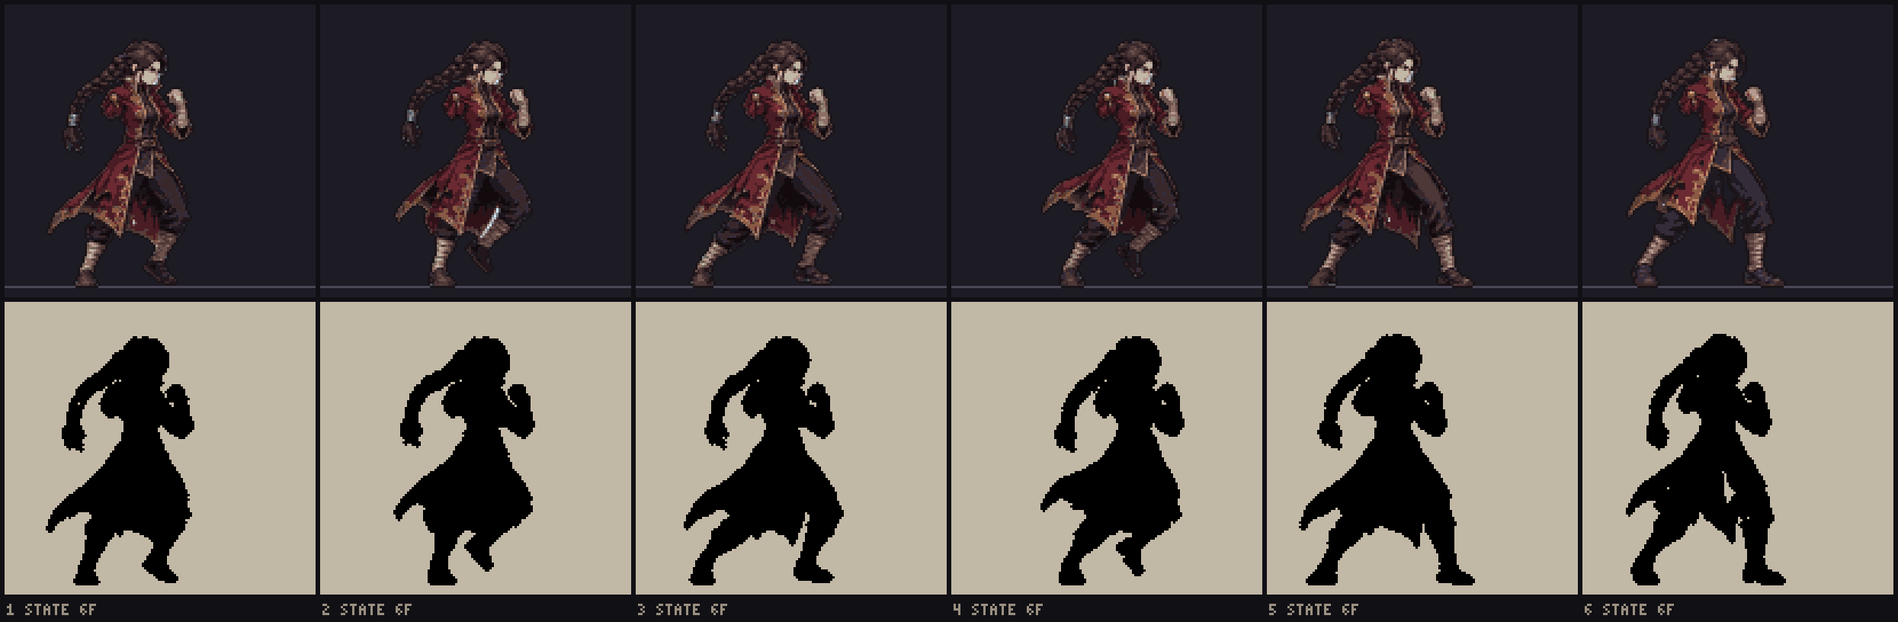
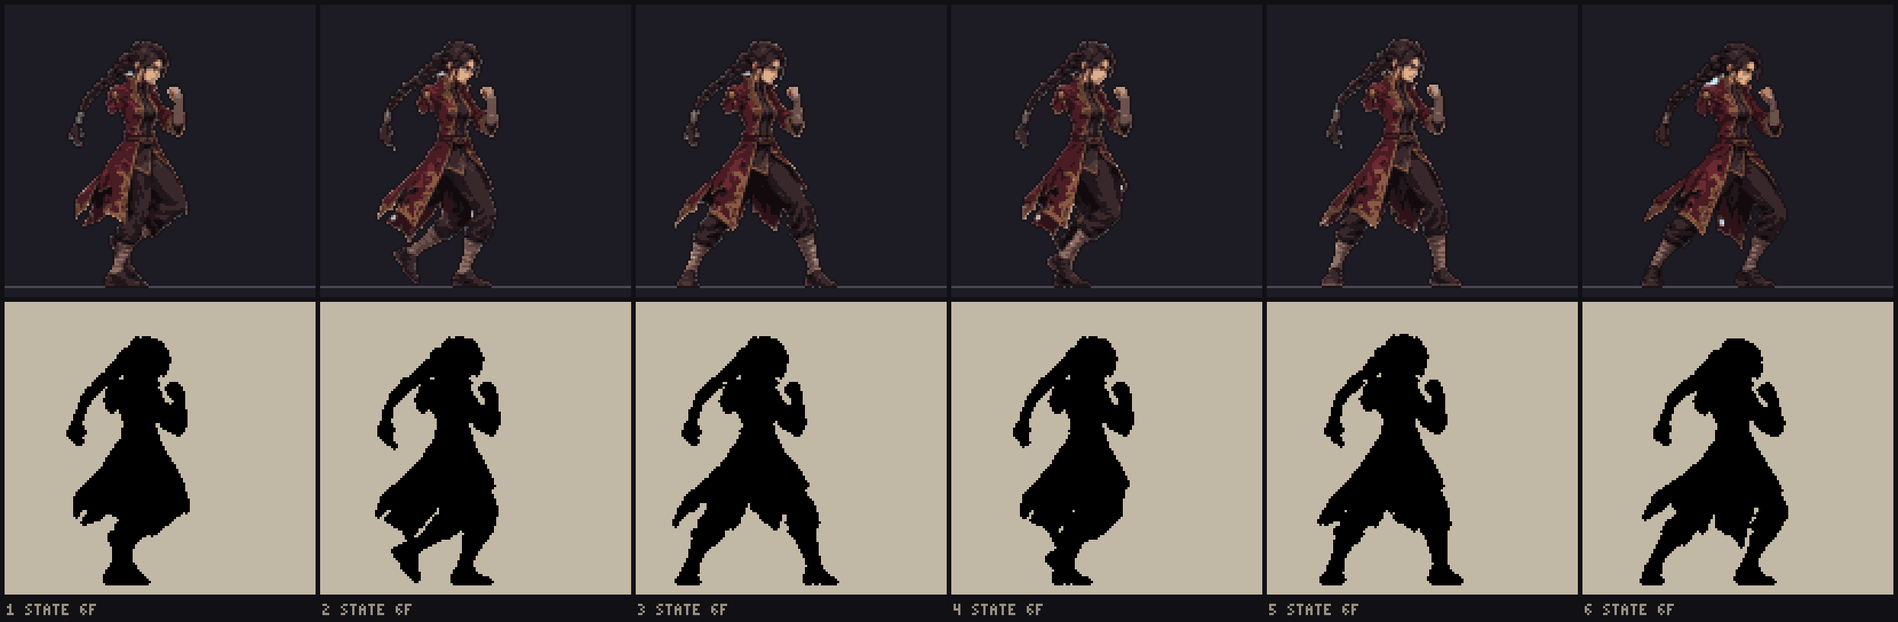
Batch 01: new walk sheets in the game; edit bases for attacks; JPEG sheets; review fingerprints
- walk_forward regenerated sheets (JPEG) converted, reviewed and built; idle re-reviewed
- review.json verdicts carry the image fingerprint; a replaced image needs a new review
  (regression test: replaced sheets inherited the old review)
- pipeline reads JPEG sheets (jpeg-js)
- npm run art-requests writes edit bases for attack sheets (docs/art_requests/bases/) with
  one edit instruction per figure; jab uses it (recommended for arm attacks)

Claude-Session: https://claude.ai/code/session_01AKGexPXdP4PDQG8Yjd4zZT

diff --git a/tools/art/prompts.ts b/tools/art/prompts.ts
@@ -7,6 +7,7 @@ import { existsSync, mkdirSync, readFileSync, readdirSync, writeFileSync } from 
 import { join } from 'node:path';
 import { loadMoveFiles, type Move } from '../../src/combat/move_data';
 import { movePoses, STATE_SPECS } from '../../src/view/anim_layout';
+import { writeEditBase } from './bases';
 import type { SheetManifest } from './pipeline';
 
 const ROOT = process.cwd();
@@ -23,6 +24,8 @@ interface Design {
   near_side_rule?: string;
   /** The reference stance, as used for the anchor pose. */
   guard?: string;
+  /** Sheet (relative to art_src/<char>/) whose first figure is used for edit bases. */
+  edit_base?: string;
 }
 
 const SHEET_RULES = (n: number) =>
@@ -38,6 +41,10 @@ const NEGATIVE = /\b(no|not|never|none|nothing|without|don't|doesn't|isn't|avoid
 export function negativeWords(text: string): string[] {
   return text.split(/(?<=[.;:])\s+/).filter((sentence) => NEGATIVE.test(sentence));
 }
+
+/** One edit instruction for figure `k` of an edit base. */
+const EDIT = (k: number, n: number, note: string, d: Design) =>
+  `Edit the selected figure (figure ${k} of ${n}, counting from the left) into this pose. ${note} Keep everything else about her exactly as in the image: the same face, hair and braid, coat, colours, pixel-art style and size, both feet on the same ground line as the other figures.${d.near_side_rule ? ` ${d.near_side_rule}` : ''} The rest of the image stays exactly as it is.`;
 
 const TIPS = [
   'If it goes wrong:',
@@ -195,6 +202,27 @@ for (const char of readdirSync(join(ROOT, 'art_src')).filter((d) => existsSync(j
       if (bad.length) throw new Error(`${s.manifest.sheet}: negative wording in the prompt (image models draw what they read):\n  ${bad.join('\n  ')}`);
       lines.push('```text', design.lock, '', SHEET_RULES(n), '', ANCHOR(design), ...s.notes.map((t, i) => `Pose ${i + 2}: ${t}`), ...(design.near_side_rule ? ['', design.near_side_rule] : []), '```', '');
       if (m && design.arm_words?.[m.limb]) lines.push(TIPS, '');
+      if (m) {
+        // Attacks: an edit base, edited one figure at a time (recommended for arm moves).
+        const hb = m.hitboxes.reduce((r, b) => Math.max(r, (b.x + b.w) / 100), m.throwRange / 100);
+        // The base figure: figure 1 (the reference stance) of an approved sheet drawn by the image
+        // model (design.edit_base), else the reference image.
+        const refDir = join(ROOT, 'art_src', char, 'reference');
+        const ref = design.edit_base ? join(ROOT, 'art_src', char, design.edit_base) : join(refDir, readdirSync(refDir).find((f) => f.endsWith('.png'))!);
+        const baseName = s.manifest.sheet.replace(/\.png$/, '_base.png');
+        mkdirSync(join(ROOT, 'docs/art_requests/bases'), { recursive: true });
+        const size = writeEditBase(ref, join(ROOT, 'docs/art_requests/bases', baseName), n, hb, design.body_height_px);
+        const edits = s.notes.map((t, i) => EDIT(i + 2, n, t, design));
+        const bad = negativeWords(edits.join(' '));
+        if (bad.length) throw new Error(`${s.manifest.sheet}: negative wording in an edit prompt:\n  ${bad.join('\n  ')}`);
+        lines.push(
+          `### Edit method${design.arm_words?.[m.limb] ? ' (recommended for arm attacks)' : ''}`,
+          '',
+          `Instead of drawing new figures, edit a ready-made sheet: [\`bases/${baseName}\`](bases/${baseName}) (${size.w}x${size.h}, the reference stance ${n} times on one ground line). In ChatGPT, upload the base and the reference image. Then for each pose below, one at a time: use **Select** to paint over that figure and the empty space in front of it, paste the edit text, and keep the result if it is right (regenerate the edit if it isn't). Figure 1 stays as it is: it is the scale anchor. When all ${n - 1} figures are done, download the image and save it as \`${s.manifest.sheet}\` (PNG or JPEG).`,
+          '',
+          ...edits.flatMap((e, i) => [`Figure ${i + 2}:`, '', '```text', e, '```', '']),
+        );
+      }
     }
     lines.push('## Manifest (already saved)', '', '```json', JSON.stringify({ sheets: sheets.map((s) => s.manifest) }, null, 2), '```', '');
     mkdirSync(join(ROOT, 'docs/art_requests'), { recursive: true });

diff --git a/tools/art/build.ts b/tools/art/build.ts
@@ -11,11 +11,11 @@
  * art spec, never from the images, so animations pass the validator by construction.
  */
 import { existsSync, mkdirSync, readFileSync, readdirSync, rmSync, writeFileSync } from 'node:fs';
-import { join } from 'node:path';
+import { basename, join } from 'node:path';
 import { loadMoveFiles, type Move } from '../../src/combat/move_data';
 import { validateAnimFile } from '../../src/view/anim_data';
 import { movePoses, STATE_SPECS } from '../../src/view/anim_layout';
-import { colourDrift, colourShares, poseVerdict, sizeDrift, TRACKED, type Canonical, type Verdict } from './consistency';
+import { colourDrift, colourShares, currentVerdict, imageId, poseVerdict, sizeDrift, TRACKED, type Canonical, type Verdict } from './consistency';
 import type { Indexed } from './convert';
 import { Canvas, label, writeGif, writePng } from './io';
 import { convertReference, convertSheet, loadPalette, ROOT, toHex, type ConvertedPose, type ConvertedSheet, type SheetManifest } from './pipeline';
@@ -146,13 +146,16 @@ function buildCharacter(char: string): void {
         notes.push(`${char} ${batch}: ${sh.errors.join('; ')}`);
         continue;
       }
-      lines.push(`Scale ${sh.scale.toFixed(4)} (anchor → ${108} px).`, '', '| # | Pose | Size | Colour error (mean / p95 ΔE) | Colours | Checks | Visual | Verdict |', '| --- | --- | --- | --- | --- | --- | --- | --- |');
+      const image = imageId(readFileSync(sh.file));
+      let stale = false;
+      lines.push(`Scale ${sh.scale.toFixed(4)} (anchor → ${108} px). Image \`${image}\` (\`${basename(sh.file)}\`).`, '', '| # | Pose | Size | Colour error (mean / p95 ΔE) | Colours | Checks | Visual | Verdict |', '| --- | --- | --- | --- | --- | --- | --- | --- |');
       sh.poses.forEach((p, i) => {
         const key = `${sh.manifest.sheet}#${i + 1}`;
         const anchor = p.entry.role === 'anchor';
         const shares = colourShares(p.sprite, pal);
         const auto = [...colourDrift(shares, canonical.shares, anchor), ...(anchor ? sizeDrift(p.width, p.height, canonical) : []), ...(p.outside ? [`${p.outside} px outside the cell`] : [])];
-        const v = reviews[key];
+        const v = currentVerdict(reviews[key], image);
+        if (reviews[key] && !v) stale = true;
         const verdict = poseVerdict(auto, v);
         const name = anchor ? 'anchor' : `${p.entry.anim} ${p.entry.index}`;
         lines.push(`| ${i + 1} | ${name} | ${p.width}x${p.height} | ${p.meanError.toFixed(1)} / ${p.p95Error.toFixed(1)} | ${TRACKED.map((c) => `${c} ${pct(shares[c] ?? 0)}`).join(', ')} | ${auto.join('; ') || 'ok'} | ${v ? (v.pass ? 'ok' : `**${v.note ?? 'fail'}**`) : '—'} | ${verdict} |`);
@@ -165,6 +168,10 @@ function buildCharacter(char: string): void {
         }
       });
       lines.push('');
+      if (stale) {
+        lines.push('The image changed since the last visual review: its frames are waiting for a new review.', '');
+        notes.push(`${char} ${batch}: ${sh.manifest.sheet} changed since its review`);
+      }
       problems.push(...sh.errors);
     }
     mkdirSync(REVIEW, { recursive: true });

diff --git a/tools/art/bases.ts b/tools/art/bases.ts
@@ -1,0 +1,47 @@
+/**
+ * Edit bases: for attack sheets the image model is asked to EDIT a ready-made sheet instead of
+ * drawing new figures (new figures tend to grow a second arm). The base is the approved reference
+ * stance repeated once per pose, spaced on one ground line, with room in front of each figure for
+ * the strike. Pose 1 stays untouched and is the scale anchor, so the manifest and checks are the
+ * same as for a generated sheet.
+ */
+import { writeFileSync } from 'node:fs';
+import { PNG } from 'pngjs';
+import { cropFigure, downscale, foregroundMask, splitFigures } from './convert';
+import { readPng } from './pipeline';
+
+/** Figure height in the base, in image pixels (about what the image model draws). */
+const FIGURE_H = 560;
+const MARGIN = 110;
+const GAP = 70;
+
+/**
+ * Write a base with `poses` copies of the reference figure. `reach` is the strike's furthest point
+ * in front of the pivot, in character pixels (the character is `height` px tall).
+ */
+export function writeEditBase(referenceFile: string, out: string, poses: number, reach: number, height: number): { w: number; h: number } {
+  const img = readPng(referenceFile);
+  // Leftmost figure (pose 1 of a sheet, or the only figure of a reference).
+  const fig = splitFigures(foregroundMask(img), img.w, img.h)[0]!;
+  const crop = cropFigure(img, fig);
+  const f = downscale(crop, FIGURE_H / crop.h);
+  const front = Math.max(f.w / 2, Math.round((reach * FIGURE_H) / height)) + 40;
+  const slot = Math.ceil(f.w / 2 + front + GAP);
+  const w = MARGIN * 2 + slot * poses - GAP;
+  const h = FIGURE_H + MARGIN * 2;
+  const png = new PNG({ width: w, height: h });
+  png.data.fill(255);
+  for (let p = 0; p < poses; p++) {
+    const ox = MARGIN + p * slot;
+    for (let y = 0; y < f.h; y++)
+      for (let x = 0; x < f.w; x++) {
+        const s = (y * f.w + x) * 4;
+        // Like the converter: under 50% opacity (the soft floor shadow) is background.
+        if (f.data[s + 3]! < 128) continue;
+        const d = ((MARGIN + y) * w + ox + x) * 4;
+        for (let c = 0; c < 3; c++) png.data[d + c] = f.data[s + c]!;
+      }
+  }
+  writeFileSync(out, PNG.sync.write(png));
+  return { w, h };
+}

diff --git a/tools/art/pipeline.ts b/tools/art/pipeline.ts
@@ -4,6 +4,7 @@
  */
 import { existsSync, readFileSync } from 'node:fs';
 import { join } from 'node:path';
+import jpeg from 'jpeg-js';
 import { PNG } from 'pngjs';
 import {
   addOutline,
@@ -38,9 +39,24 @@ export function loadPalette(): Palette {
   return { ramps, entries, outline: entries.findIndex((e) => e.ramp === 'outline') };
 }
 
+/** Read a PNG or JPEG (image models and browsers often save JPEG). */
 export function readPng(path: string): Rgba {
+  if (/\.jpe?g$/i.test(path)) {
+    const jpg = jpeg.decode(readFileSync(path), { useTArray: true, formatAsRGBA: true });
+    return { w: jpg.width, h: jpg.height, data: new Uint8ClampedArray(jpg.data) };
+  }
   const png = PNG.sync.read(readFileSync(path));
   return { w: png.width, h: png.height, data: new Uint8ClampedArray(png.data) };
+}
+
+/** The file for a sheet named in a manifest: the name as given, or the same name saved as JPEG. */
+export function findSheetFile(dir: string, sheet: string): string | null {
+  const base = sheet.replace(/\.(png|jpe?g)$/i, '');
+  for (const ext of [sheet.slice(base.length), '.png', '.jpg', '.jpeg', '.PNG', '.JPG', '.JPEG']) {
+    const f = join(dir, base + ext);
+    if (ext && existsSync(f)) return f;
+  }
+  return null;
 }
 
 export interface PoseEntry {
@@ -104,9 +120,10 @@ function convertFigure(img: Rgba, fig: Parameters<typeof cropFigure>[1], scale: 
 
 /** Convert one pose sheet: split, scale from the anchor (pose 1), convert every pose. */
 export function convertSheet(dir: string, manifest: SheetManifest, pal: Palette, cell: readonly [number, number], pivot: readonly [number, number]): ConvertedSheet {
-  const file = join(dir, manifest.sheet);
+  const found = findSheetFile(dir, manifest.sheet);
+  const file = found ?? join(dir, manifest.sheet);
   const errors: string[] = [];
-  if (!existsSync(file)) return { manifest, file, scale: 0, poses: [], errors: [], waiting: true };
+  if (!found) return { manifest, file, scale: 0, poses: [], errors: [], waiting: true };
   const img = readPng(file);
   const figs = splitFigures(foregroundMask(img), img.w, img.h);
   if (figs.length !== manifest.poses.length) {

diff --git a/tools/art/consistency.ts b/tools/art/consistency.ts
@@ -6,6 +6,7 @@
  *   - size: every sheet's anchor within 3 px of the canonical height and width;
  *   - visual review: verdicts recorded by the reviewer in raw/<batch>/review.json.
  */
+import { createHash } from 'node:crypto';
 import type { Indexed } from './convert';
 import type { Palette } from './pipeline';
 
@@ -80,6 +81,18 @@ export function sizeDrift(w: number, h: number, ref: Canonical, tolerance = 3): 
 export interface Verdict {
   pass: boolean;
   note?: string;
+  /** Fingerprint of the sheet image the verdict was given for (imageId); a replaced image needs a new review. */
+  image?: string;
+}
+
+/** Short fingerprint of an image file's bytes. */
+export function imageId(bytes: Uint8Array): string {
+  return createHash('sha256').update(bytes).digest('hex').slice(0, 12);
+}
+
+/** The recorded verdict, if it was given for this exact image. */
+export function currentVerdict(v: Verdict | undefined, image: string): Verdict | undefined {
+  return v && v.image === image ? v : undefined;
 }
 
 /**

diff --git a/tests/converter.test.ts b/tests/converter.test.ts
@@ -167,3 +167,16 @@ describe('review gate', () => {
     expect(poseVerdict(['wraps 24% (reference 10%)'], { pass: true })).toBe('FAIL');
   });
 });
+
+describe('review fingerprint', () => {
+  it('a verdict only counts for the exact image it was given for', async () => {
+    const { currentVerdict, imageId } = await import('../tools/art/consistency');
+    const a = imageId(new Uint8Array([1, 2, 3]));
+    const b = imageId(new Uint8Array([1, 2, 4]));
+    expect(a).not.toBe(b);
+    expect(currentVerdict({ pass: true, image: a }, a)).toEqual({ pass: true, image: a });
+    // Regression: a replaced sheet inherited the review of the old image with the same name.
+    expect(currentVerdict({ pass: true, image: a }, b)).toBeUndefined();
+    expect(currentVerdict({ pass: true }, a)).toBeUndefined();
+  });
+});

diff --git a/docs/art_requests/rook_batch_01.md b/docs/art_requests/rook_batch_01.md
@@ -60,7 +60,7 @@ Same character as the attached reference image: Rook, a tall, lean, one-armed wo
 Make ONE image: a single horizontal row of exactly 6 full-body poses of this character, left to right. Side view, facing RIGHT, the same camera angle and the same pixel-art style as the reference. Every pose at exactly the same scale. All feet rest on one shared, straight ground line, apart from a pose described as airborne. Even spacing, with wide white gaps between the figures, so each figure, with its braid and coat tails, stands clearly apart. A plain, pure white background (#FFFFFF) filling the whole image: just the figures on flat white.
 
 Pose 1 (scale anchor): exactly the stance from the reference image, unchanged: southpaw side-on fighting stance, weight on the back foot, her left fist raised in front of her chin, chin down.
-Pose 2: Anticipation, small and quick: the stance from pose 1 with the knees bent a little more and the whole body 2-3 px lower; the front foot just starting to slide forward. The left fist stays in the guard in front of her chin, the elbow lifting slightly away from her ribs.
+Pose 2: Anticipation, small and quick: the stance from pose 1 with the knees bent a little more and the whole body slightly lower; the front foot just starting to slide forward. The left fist stays in the guard in front of her chin, the elbow lifting slightly away from her ribs.
 Pose 3: Launch of a southpaw jab: the left fist shoots straight forward out of the guard along a level line at chest height; the left arm half extended, elbow bent at about 90 degrees and behind the fist, forearm level. The front foot has stepped forward a few pixels; her left shoulder rolls forward and her chin drops behind it.
 Pose 4: IMPACT (the hit), southpaw jab: her left arm fully extended straight forward at chest height (the fist lands 69-82 px above the floor, 64-77% of her height); left shoulder, elbow and fist in one straight horizontal line, knuckles up. Front knee bent over the front foot, back leg straight, back heel lifted; chin tucked behind her left shoulder; her body turned so the pinned near shoulder angles slightly away from the viewer. Coat tails swing back behind her; the braid trails behind her head.
 Pose 5: Recovery: the left fist snapping back along the same level line, elbow bent again, fist halfway between the impact point and her chin; the front foot slides back a little, weight returning to the middle. Coat tails and braid swinging back the other way.
@@ -72,6 +72,40 @@ In every pose: one arm, her left, on the far side of her body, and one fist. Her
 If it goes wrong:
 - A second arm or a fist appears on her near side: reply "Keep her one-armed and southpaw: the punch comes from her left arm on the far side of her body; her near shoulder shows the flat folded sleeve with the round gold pin, with the coat hanging smooth down that side." and regenerate.
 - Still wrong after two tries: attach your idle sheet (rook_idle_01.png, which came out right) as well as the reference, and ask it to edit pose 1 of that sheet into each pose instead of drawing new figures.
+
+### Edit method (recommended for arm attacks)
+
+Instead of drawing new figures, edit a ready-made sheet: [`bases/rook_jab_01_base.png`](bases/rook_jab_01_base.png) (3882x780, the reference stance 6 times on one ground line). In ChatGPT, upload the base and the reference image. Then for each pose below, one at a time: use **Select** to paint over that figure and the empty space in front of it, paste the edit text, and keep the result if it is right (regenerate the edit if it isn't). Figure 1 stays as it is: it is the scale anchor. When all 5 figures are done, download the image and save it as `rook_jab_01.png` (PNG or JPEG).
+
+Figure 2:
+
+```text
+Edit the selected figure (figure 2 of 6, counting from the left) into this pose. Anticipation, small and quick: the stance from pose 1 with the knees bent a little more and the whole body slightly lower; the front foot just starting to slide forward. The left fist stays in the guard in front of her chin, the elbow lifting slightly away from her ribs. Keep everything else about her exactly as in the image: the same face, hair and braid, coat, colours, pixel-art style and size, both feet on the same ground line as the other figures. In every pose: one arm, her left, on the far side of her body, and one fist. Her near shoulder shows the flat folded sleeve with the round gold pin, and the coat hangs smooth down her near side. The rest of the image stays exactly as it is.
+```
+
+Figure 3:
+
+```text
+Edit the selected figure (figure 3 of 6, counting from the left) into this pose. Launch of a southpaw jab: the left fist shoots straight forward out of the guard along a level line at chest height; the left arm half extended, elbow bent at about 90 degrees and behind the fist, forearm level. The front foot has stepped forward a few pixels; her left shoulder rolls forward and her chin drops behind it. Keep everything else about her exactly as in the image: the same face, hair and braid, coat, colours, pixel-art style and size, both feet on the same ground line as the other figures. In every pose: one arm, her left, on the far side of her body, and one fist. Her near shoulder shows the flat folded sleeve with the round gold pin, and the coat hangs smooth down her near side. The rest of the image stays exactly as it is.
+```
+
+Figure 4:
+
+```text
+Edit the selected figure (figure 4 of 6, counting from the left) into this pose. IMPACT (the hit), southpaw jab: her left arm fully extended straight forward at chest height (the fist lands 69-82 px above the floor, 64-77% of her height); left shoulder, elbow and fist in one straight horizontal line, knuckles up. Front knee bent over the front foot, back leg straight, back heel lifted; chin tucked behind her left shoulder; her body turned so the pinned near shoulder angles slightly away from the viewer. Coat tails swing back behind her; the braid trails behind her head. Keep everything else about her exactly as in the image: the same face, hair and braid, coat, colours, pixel-art style and size, both feet on the same ground line as the other figures. In every pose: one arm, her left, on the far side of her body, and one fist. Her near shoulder shows the flat folded sleeve with the round gold pin, and the coat hangs smooth down her near side. The rest of the image stays exactly as it is.
+```
+
+Figure 5:
+
+```text
+Edit the selected figure (figure 5 of 6, counting from the left) into this pose. Recovery: the left fist snapping back along the same level line, elbow bent again, fist halfway between the impact point and her chin; the front foot slides back a little, weight returning to the middle. Coat tails and braid swinging back the other way. Keep everything else about her exactly as in the image: the same face, hair and braid, coat, colours, pixel-art style and size, both feet on the same ground line as the other figures. In every pose: one arm, her left, on the far side of her body, and one fist. Her near shoulder shows the flat folded sleeve with the round gold pin, and the coat hangs smooth down her near side. The rest of the image stays exactly as it is.
+```
+
+Figure 6:
+
+```text
+Edit the selected figure (figure 6 of 6, counting from the left) into this pose. Recovery, nearly back in stance: left fist just in front of her chin again, elbow down by her ribs, weight settling onto the back foot. Almost exactly pose 1; coat tails and braid settling. Keep everything else about her exactly as in the image: the same face, hair and braid, coat, colours, pixel-art style and size, both feet on the same ground line as the other figures. In every pose: one arm, her left, on the far side of her body, and one fist. Her near shoulder shows the flat folded sleeve with the round gold pin, and the coat hangs smooth down her near side. The rest of the image stays exactly as it is.
+```
 
 ## Manifest (already saved)
 

diff --git a/docs/art_review/rook_batch_01.md b/docs/art_review/rook_batch_01.md
@@ -6,7 +6,7 @@ Canonical rook: 79x108 px; coat 24%, gold 5%, skin 9%, darks 49%, wraps 10%.
 
 ## rook_idle_01.png
 
-Scale 0.2007 (anchor → 108 px).
+Scale 0.2007 (anchor → 108 px). Image `222e6a4d5500` (`rook_idle_01.png`).
 
 | # | Pose | Size | Colour error (mean / p95 ΔE) | Colours | Checks | Visual | Verdict |
 | --- | --- | --- | --- | --- | --- | --- | --- |
@@ -18,36 +18,27 @@ Scale 0.2007 (anchor → 108 px).
 
 ## rook_walk_forward_01.png
 
-Scale 0.2147 (anchor → 108 px).
+Scale 0.2379 (anchor → 108 px). Image `8aa5e715adfb` (`rook_walk_forward_01.jpeg`).
 
 | # | Pose | Size | Colour error (mean / p95 ΔE) | Colours | Checks | Visual | Verdict |
 | --- | --- | --- | --- | --- | --- | --- | --- |
-| 1 | anchor | 77x108 | 5.3 / 8.7 | coat 24%, gold 1%, skin 5%, darks 49%, wraps 20% | skin 5% (reference 9%); wraps 20% (reference 10%) | ok | FAIL |
-| 2 | walk_forward 0 | 63x107 | 5.3 / 8.8 | coat 25%, gold 1%, skin 6%, darks 46%, wraps 20% | wraps 20% (reference 10%) | ok | FAIL |
-| 3 | walk_forward 1 | 60x107 | 5.4 / 9.0 | coat 25%, gold 1%, skin 6%, darks 46%, wraps 20% | wraps 20% (reference 10%) | ok | FAIL |
-| 4 | walk_forward 2 | 68x107 | 5.4 / 8.8 | coat 24%, gold 0%, skin 6%, darks 49%, wraps 19% | wraps 19% (reference 10%) | ok | FAIL |
-| 5 | walk_forward 3 | 61x107 | 5.3 / 8.8 | coat 24%, gold 1%, skin 6%, darks 49%, wraps 18% | wraps 18% (reference 10%) | ok | FAIL |
-| 6 | walk_forward 4 | 75x108 | 5.5 / 8.6 | coat 24%, gold 1%, skin 6%, darks 48%, wraps 20% | wraps 20% (reference 10%) | ok | FAIL |
+| 1 | anchor | 71x108 | 4.3 / 8.3 | coat 21%, gold 2%, skin 11%, darks 45%, wraps 17% | wraps 17% (reference 10%); anchor width 71 px (canonical 79) | ok | FAIL |
+| 2 | walk_forward 0 | 52x107 | 4.3 / 8.3 | coat 21%, gold 3%, skin 9%, darks 49%, wraps 14% | ok | ok | PASS |
+| 3 | walk_forward 1 | 53x107 | 4.3 / 8.1 | coat 22%, gold 2%, skin 9%, darks 46%, wraps 17% | ok | ok | PASS |
+| 4 | walk_forward 2 | 71x107 | 4.3 / 8.3 | coat 21%, gold 3%, skin 10%, darks 47%, wraps 16% | ok | ok | PASS |
+| 5 | walk_forward 3 | 51x107 | 4.4 / 8.4 | coat 22%, gold 3%, skin 10%, darks 45%, wraps 15% | ok | ok | PASS |
+| 6 | walk_forward 4 | 62x108 | 4.4 / 8.3 | coat 22%, gold 3%, skin 10%, darks 44%, wraps 18% | ok | ok | PASS |
 
 ## rook_walk_forward_02.png
 
-Scale 0.1394 (anchor → 108 px).
+Scale 0.1256 (anchor → 108 px). Image `c33f293e54cb` (`rook_walk_forward_02.jpeg`).
 
 | # | Pose | Size | Colour error (mean / p95 ΔE) | Colours | Checks | Visual | Verdict |
 | --- | --- | --- | --- | --- | --- | --- | --- |
-| 1 | anchor | 78x108 | 5.2 / 8.9 | coat 23%, gold 1%, skin 9%, darks 48%, wraps 17% | wraps 17% (reference 10%) | ok | FAIL |
-| 2 | walk_forward 5 | 68x108 | 5.2 / 8.9 | coat 23%, gold 1%, skin 10%, darks 49%, wraps 16% | ok | ok | PASS |
+| 1 | anchor | 77x108 | 4.0 / 7.5 | coat 24%, gold 3%, skin 11%, darks 50%, wraps 11% | ok | ok | PASS |
+| 2 | walk_forward 5 | 63x106 | 4.1 / 7.7 | coat 25%, gold 4%, skin 11%, darks 49%, wraps 9% | ok | ok | PASS |
 
 ## rook_jab_01.png
 
-Scale 0.2236 (anchor → 108 px).
-
-| # | Pose | Size | Colour error (mean / p95 ΔE) | Colours | Checks | Visual | Verdict |
-| --- | --- | --- | --- | --- | --- | --- | --- |
-| 1 | anchor | 77x108 | 5.7 / 10.1 | coat 18%, gold 1%, skin 6%, darks 49%, wraps 24% | wraps 24% (reference 10%) | ok | FAIL |
-| 2 | rook_jab 0 | 67x108 | 5.6 / 9.8 | coat 19%, gold 1%, skin 8%, darks 50%, wraps 21% | wraps 21% (reference 10%) | ok | FAIL |
-| 3 | rook_jab 1 | 67x108 | 5.6 / 9.7 | coat 19%, gold 2%, skin 7%, darks 51%, wraps 19% | wraps 19% (reference 10%) | ok | FAIL |
-| 4 | rook_jab 2 | 89x108 | 5.7 / 10.0 | coat 19%, gold 1%, skin 8%, darks 49%, wraps 21% | wraps 21% (reference 10%) | ok | FAIL |
-| 5 | rook_jab 3 | 67x108 | 5.6 / 9.9 | coat 18%, gold 1%, skin 7%, darks 50%, wraps 22% | wraps 22% (reference 10%) | ok | FAIL |
-| 6 | rook_jab 4 | 72x108 | 5.7 / 10.1 | coat 18%, gold 1%, skin 6%, darks 49%, wraps 25% | wraps 25% (reference 10%) | ok | FAIL |
+Waiting for the image.
 

diff --git a/CLAUDE.md b/CLAUDE.md
@@ -139,8 +139,8 @@ public/art/           # generated sprite sheets (npm run art) and art
 ## Art pipeline (sprites, animation, effects)
 
 - **Character art comes from an image model, converted by code** (since Prompt 04B; the Part A code rig is retired to `tools/art/legacy/`). The user generates pose sheets from an approved reference (`art_src/<char>/reference/`) using the prompts in `docs/art_requests/`, and adds them to `art_src/<char>/raw/<batch>/` with a `manifest.json`. `npm run art` (`tools/art/`) converts them: background removal (alpha, or flood-fill through near-white from the edges so inner whites survive; floor shadows removed), figure splitting, one scale per sheet from the anchor pose (pose 1, the reference stance) so it is 108 px tall, area-average downscale, CIELAB palette snap (no dithering, < 50% opacity → transparent), cleanup, 1 px outline. Pivot: the centre between the feet when both are on the floor, otherwise the supporting foot (manifest `pivot_x` overrides). Durations and impact frames come from the move data and the art spec, never the images.
-- Image prompts describe only what is visible (image models draw every noun they read: "no right arm" draws one); `npm run art-requests` and a test reject negative wording. Rook is described as one-armed and southpaw, her single arm the left one on the far side of her body. Hand-written pose notes per move go in `art_src/<char>/pose_notes.json`.
-- The converted reference is the **canonical character** (`art_src/<char>/canonical.json`): the scale anchor and the colour reference. Every converted frame is checked against it (`tools/art/consistency.ts`: colour proportions, anchor size within 3 px) plus a visual review recorded in `raw/<batch>/review.json`; reports go to `docs/art_review/<char>_<batch>.md`. Only animations whose frames have all arrived and none failed review are put in the game. Never edit generated PNGs by hand.
+- Image prompts describe only what is visible (image models draw every noun they read: "no right arm" draws one); `npm run art-requests` and a test reject negative wording. Rook is described as one-armed and southpaw, her single arm the left one on the far side of her body. Hand-written pose notes per move go in `art_src/<char>/pose_notes.json`. Attacks also get an **edit base** (`docs/art_requests/bases/<sheet>_base.png`: pose 1 of an approved model-drawn sheet, `edit_base` in `design.json`, repeated once per pose on one ground line) that the user edits one figure at a time; figure 1 stays the anchor. Sheets may be PNG or JPEG.
+- The converted reference is the **canonical character** (`art_src/<char>/canonical.json`): the scale anchor and the colour reference. Every converted frame is checked against it (`tools/art/consistency.ts`: colour proportions, anchor size within 3 px) plus a visual review recorded in `raw/<batch>/review.json` (each verdict carries the image's fingerprint, so a replaced image needs a new review); reports go to `docs/art_review/<char>_<batch>.md`. Only animations whose frames have all arrived and none failed review are put in the game. Never edit generated PNGs by hand.
 - Palette: `art_src/palette.json` (ramps dark → light; `wraps_warm`, `trousers` and `bronze` were added for Rook's reference; bronze is her tarnished-gold trim and counts as gold in the consistency checks). Rook: oxblood coat (her main colour, a deep muted red-brown, not the glint red) with tarnished-gold accents. `#ff3a2e` is reserved for sweeping glints and never appears on a character.
 - When a character has an animation file but not every animation yet, the missing ones use the generated placeholder poses (never a fallback to idle).
 - Sprite sheets: `public/art/characters/<id>.png`, a grid of equal cells (cell 0 = top left). Animation files: `data/anims/<id>.json` (`sheet`, `cell`, `pivot`, optional `sheet_cells`, `anims`). Sheet layouts per character (cell size, pivot, columns, colour) live in `data/art_spec.json`; the dummy shares Rook's sheet (shifted to greys).
